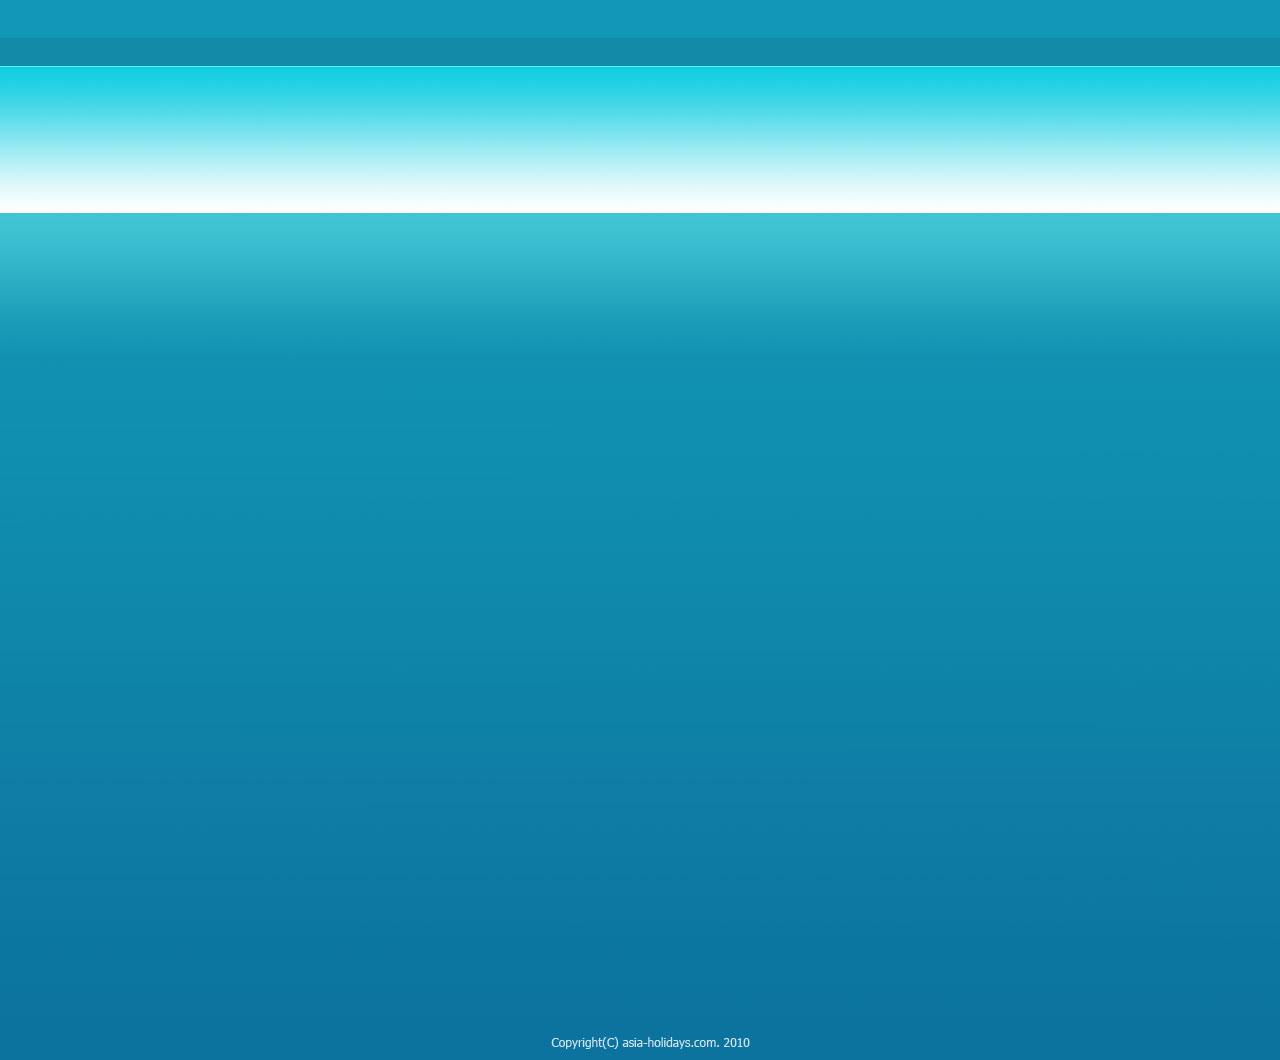
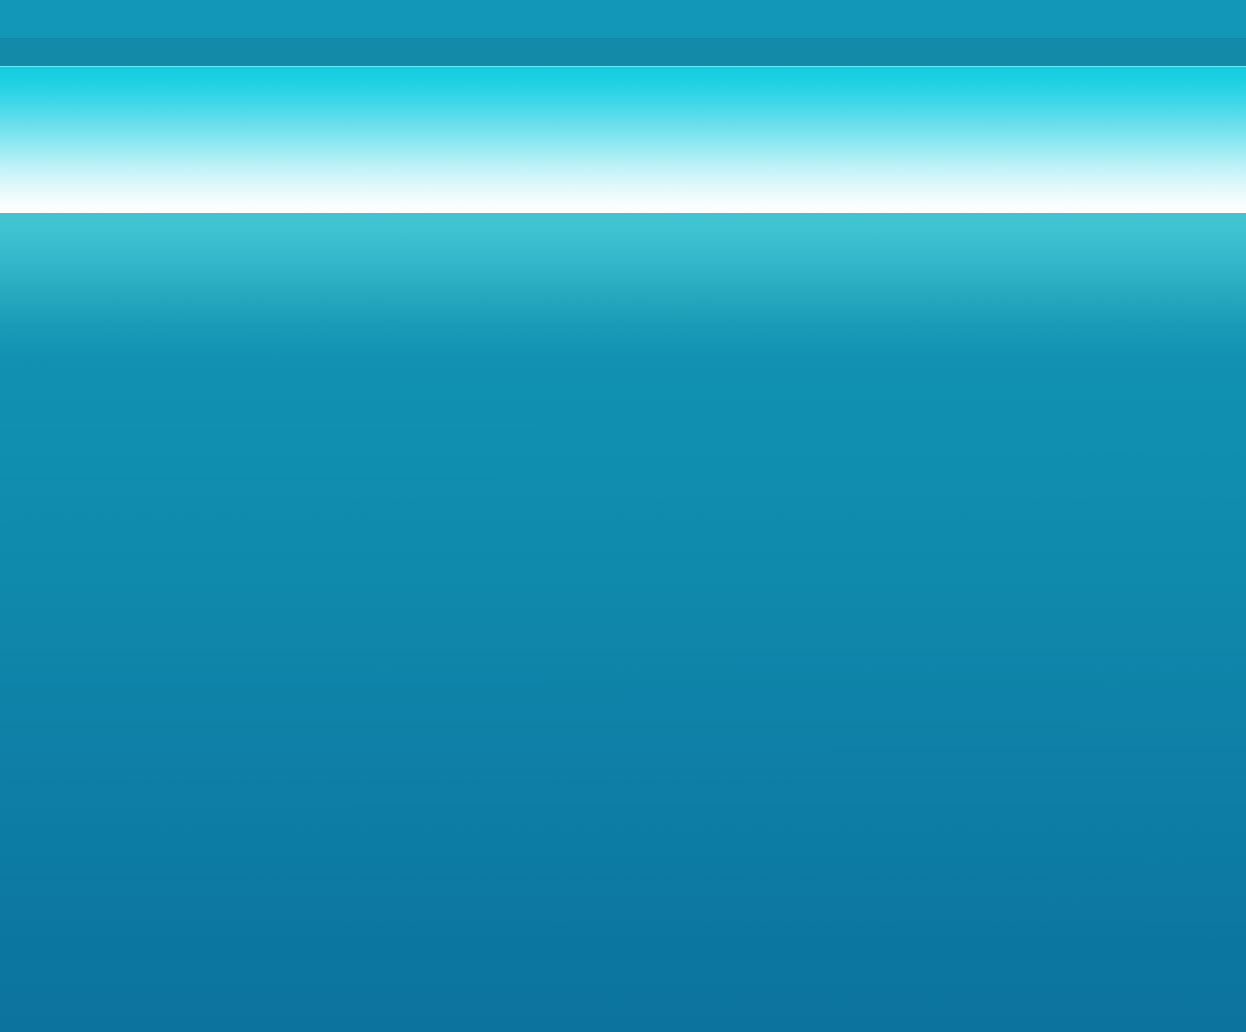
Homework4

Changed region(s): [[0.0, 0.186, 1.0, 0.2171], [0.427, 0.9612, 0.5795, 0.9922]]

diff --git a/GoIT/markup/home/Homework4/css/style.css b/GoIT/markup/home/Homework4/css/style.css
@@ -3,31 +3,37 @@
   padding: 0;
 }
 
+}
+head{
+  display: none;
+}
+
  body {     
-  margin: s0px auto;
-  width: 1279px;
+/*   background:no-repeat; */
+  width: 2676px;
   height: 1013px; 
   background-color: #333;
-   background-image: url(../img/homework4.png);
-  font-family: Tahoma, Arial, sans-serif; 
+  background-image: url(../img/homework4.jpg); 
+  font-family: Tahoma, Arial, sans-serif;
+  line-height: 1;
+
 } 
 
 .wrapper {
-        background-color: white;
-        width: 1000px;
-        height: 900px;
-        margin: 0px 30px 0px 120px;
+  background-color: white;
+  width: 1000px;
+  height: 998px;
+  margin: 0px 30px 0px 120px;
 } 
-
+ 
 .Logo{
  height: 151px;
  width: 236px;
 }
-
+ 
  .Logo img {
  height: 164px;
  width: 283px;
- overflow:left;
  margin-top: 48px ;
  margin-left: 30px; 
 
@@ -43,24 +49,20 @@
 
   .Box {
   color: #49b5d6;
-  overflow: right;
   list-style-type: none;
   font-size: 10.6pt;
-  font-weight: bolder;
-  text-shadow: 0.2px 0.2px #000;
+   font-weight: bolder; 
 } 
 
- .Contacts li{
+  .Contacts li{
   color: #49b5d6;
   list-style-type: none;
   font-size: 10.5pt;
   font-weight: normal;
-  text-shadow: 0.2px 0.4px  #000;
-
  }
 
 
-.mainNav{
+.mainNav{ 
  margin-top: -4px;
  margin-left: 645px;
  float:right; 
@@ -85,57 +87,145 @@ list-style-type: none;
   font-weight: bold;
 }
 
-   .Title {
- width:1000px;
- height:237px;
-}
- 
-
-
    .Title img{
    position:absolute; 
   left: 120px;
-  top: 212.8px;
-
-  
+  top: 212.8px; 
  }
- . clearfix:after {
-    content: ;
-    display: block;
-    clear: both;
-    height: 0;
-    width: 100%;
- 
-} 
 
-.menu{
-top: -686px;
-height: 28px;
+ .nav{
+left: 120px;
+top: -562px;
+width: 1000px;
+height: 28px; 
 border-top: 1px solid #cacbcb;
 border-bottom: 1px solid black;
 position: relative;
 text-align: justify;
 z-index: 1;
 box-shadow: 0px 0px 4px 0px rgba(0,0,0,0.75);
-background: rgba(55,55,55,1) 0%,rgba(48,48,48,1) 100%);
-
+background: linear-gradient(to bottom, rgba(55,55,55,1) 0%,rgba(48,48,48,1) 100%);
 }
 
-
-.menu li{
+.nav li{
       position: relative;
+      display: inline-block; 
+      float:left; 
+        text-align: left;
+ }
 
-/*    list-style:none; */
-       display: inline-block;
-}
-
-.menu a{
-  padding: 0 33px;
+.nav li a{
+  padding: 0 19px;
+  color: white;
+  background: #333;
+  text-align: left;
   display: block;
   line-height: 28px;
-  color: white;
+  text-decoration: none;
+  font-size: 14px;
+  text-shadow: 1px 1px 1px rgba(0,0,0,0.75); /* Тень текста, чтобы приподнять его на немного */
+  padding-left: 51px;
+}  
+
+nav li a:hover{
+  color:#fff;
+  background:#6b0c36;
+  background:rgba(107,12,54,0.75); /* Выглядит полупрозрачным */
+  text-decoration:none;
 }
 
-.menu ul{
-  display: none;
-}   
+.nav ul{
+display: inline-block;
+list-style:none;
+position:absolute;/* Скрываем за экраном, когда не нужно (данный метод лучше, чем display:none;) */
+left:-9999px;/* Устанавливаем начальное состояние прозрачности */
+     
+}
+
+.nav ul li{
+  padding-top: 0px; /* Вводим отступ между li чтобы создать иллюзию разделенных пунктов меню */
+  float:none;
+  text-align: left;
+}
+
+.nav ul a{
+  white-space:nowrap; /* Останавливаем перенос текста и создаем многострочный выпадающий пункт */
+  display:block;
+  padding: 0 60px 0 10px;
+}
+
+.nav li:hover ul{ /* Выводим выпадающий пункт при наведении курсора */
+  left:0; /* Приносим его обратно на экран, когда нужно */
+  opacity:1; /* Делаем непрозрачным */
+
+}
+
+nav li:hover a{ /* Устанавливаем стили для верхнего уровня, когда выводится выпадающий список */
+  background:#6b0c36;
+  background:rgba(107,12,54,0.75); /* Выглядит полупрозрачным */
+  text-decoration:underline;
+}
+
+/* nav li:hover ul a{ Изменяем некоторые стили верхнего уровня при выводе выпадающего пункта
+  text-decoration:none;
+  } */
+
+nav li:hover ul li a:hover{ /* Устанавливаем стили для выпадающих пунктов, когда курсор наводится на конкретный пункт */
+  background:#333;
+  background:rgba(51,51,51,0.75); /* Будет полупрозрачным */
+  text-decoration:underline;
+/*   -moz-transform:scale(1.05);
+-webkit-transform:scale(1.05);
+ */
+}
+
+.around {
+      font-size: 13px;
+      line-height: 1.91;
+      position:absolute;   
+      overflow: hidden; 
+      top: 466px;
+      height: 540px;
+      width: 1001px;
+      left: 120px;
+}
+
+
+.Form {
+    background: #f0f0f0;
+    position: absolute;
+/*       position-top:-10px; */
+    width:169px;
+    height:532px;
+    overflow:left;
+    padding-left: 7px;
+
+}
+
+ .Form2 {
+    background: #f0f0f0;
+    position-top:40;
+    width:176px;
+    height:532px;  
+    position: relative;
+    margin-left: 800px;
+    padding-left: 24px;
+}
+
+.Form h1{
+   font-size: 17px;
+   text-align: center;
+}
+
+.Form2 h2{
+   font-size: 17px;
+   text-align: center;
+}
+
+.footer span{
+      display: block;
+          margin: 11px 0;
+              color: white;
+              text-align: center;
+                  font-size: 12px;
+}

diff --git a/GoIT/markup/home/Homework4/index.html b/GoIT/markup/home/Homework4/index.html
@@ -7,7 +7,7 @@
 </head>
 <body> 
        <div class="wrapper">
-       
+            <header class="clearfix">
        <div class="Logo"><a href="#"><img src="img/Asia-holidays.png" alt=""></a>	
        </div>
 
@@ -35,38 +35,40 @@
 
       <div class="Title"><a href="#"><img src="img/Title-logo.png" alt="Лого"></a>
       </div>
-      
-      <!-- <div class="Menu" -->
-	  <ul class="menu clearfix">
+     
+     
+	  <ul class="nav">
 		<li>
-	       <a href="">Главная</a>
+	       <a href="#">Главная</a>
 	   </li>
 		<li>
-	       <a href="">Путешествие</a> 
-	    </li>
+	       <a href="#">Путешествие</a> 
 	       <ul>
-	       	<li><a href="">Путешествие 1</a></li>
-	       	<li><a href="">Путешествие 2</a></li>
-	       	<li><a href="">Путешествие 3</a></li>
-	       	<li><a href="">Путешествие 4</a></li>
-	       	<li><a href="">Путешествие 5</a></li>
+	       	<li><a href="#">Путешествие 1</a></li>
+	       	<li><a href="#">Путешествие 2</a></li>
+	       	<li><a href="#">Путешествие 3</a></li>
+	       	<li><a href="#">Путешествие 4</a></li>
+	       	<li><a href="#">Путешествие 5</a></li>
 	       </ul>
 		<li>
-	       <a href="">Услуги</a>
+	       <a href="#">Услуги</a>
 	   </li>
 		<li>
-	       <a href="">Партнерам</a>
+	       <a href="#">Партнерам</a>
 	   </li>
 		<li>
-	       <a href="">Отзывы клиентов</a>
+	       <a href="#">Отзывы клиентов</a>
 	   </li>
 	        <li>
-	       <a href="">О нас</a>
+	       <a href="#">О нас</a>
+	   </li>
+	   <li>
+	       <a href="#">Контакты</a>
 	   </li>
 	        </ul>
-     <!--    </div> -->
-	        <div class="around clearfix">
-	        <aside class="Form">
+      
+	   <div class="around clearfix">
+	        <div class="Form">
 	        <h1>Информация</h1>
 	        <p>Lorem ipsum dolor sit amet</p>	
 	        <p>Lorem ipsum dolor sit amet</p>	
@@ -76,9 +78,10 @@
 	        <p>Lorem ipsum dolor sit amet</p>	
 	        <p>Lorem ipsum dolor sit amet</p>	
 	        <p>Lorem ipsum dolor sit amet</p>	
-</aside> 
-           <section class="center form"></section>
-           <aside class="Form2">
+           </div>
+
+      <!--      < class="center form"></section> -->
+           <div class="Form2">
            <h2>Новости</h2>
            <p>Lorem ipsum dolor sit amet</p>	 
            <p>Lorem ipsum dolor sit amet</p>	 
@@ -100,8 +103,12 @@
            <p>Lorem ipsum dolor sit amet</p>	 
            <p>Lorem ipsum dolor sit amet</p>	 
            <p>Lorem ipsum dolor sit amet</p>	 
-           <p>Lorem ipsum dolor sit amet</p>	 
-           </aside> 
 </div>
+
+<div class="footer">
+<span>Copyright(C) asia-holidays.com. 2010</span>
+</div>
+
 </body>
+</header>
 </html>
